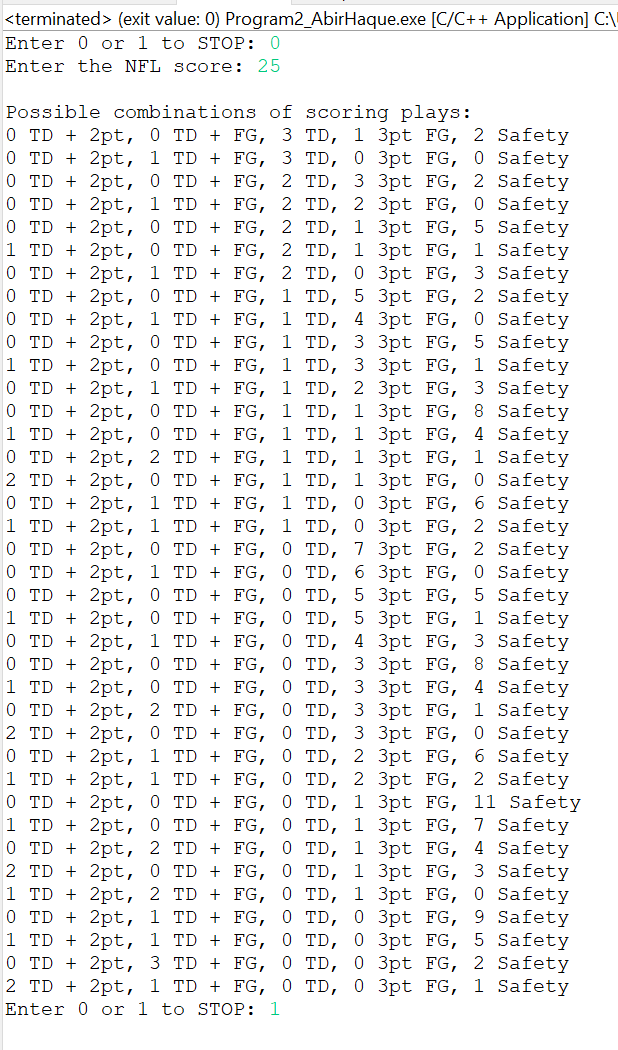
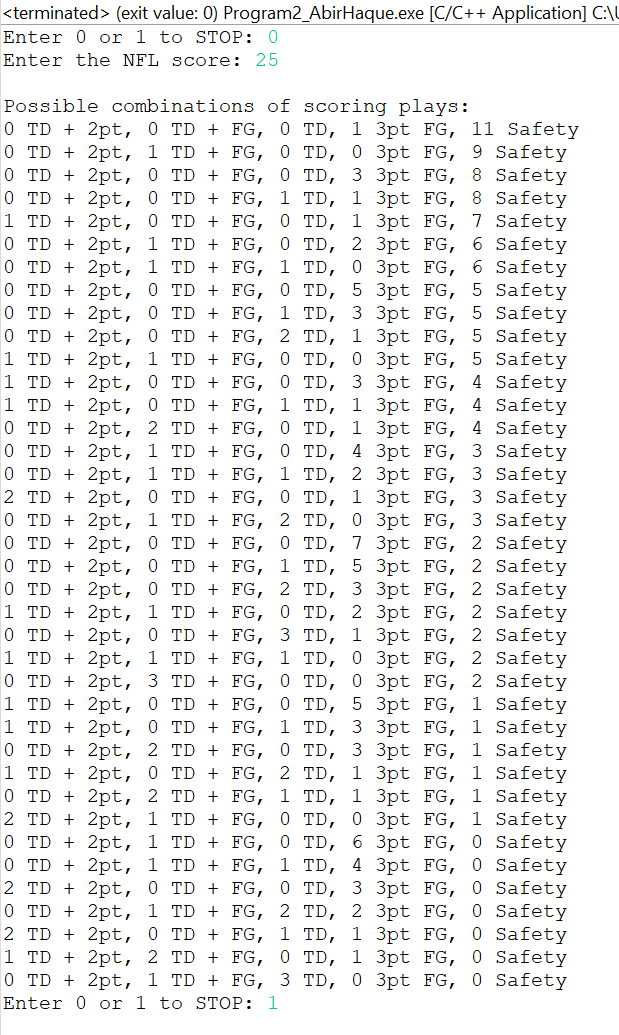
Reordered Program2 combinations

Changed region(s): [[0.0, 0.0, 1.0, 0.9894]]

diff --git a/Cprogram2/Program2.c b/Cprogram2/Program2.c
@@ -45,11 +45,12 @@ int rec_score(struct Set * set_val,int score, int td, int fg, int safety, int td
 		append(set_val,tmp,5);
 	}
 	if (cur_score<score){
-		return rec_score(set_val,score, td+1, fg, safety, td_2c, td_fg)|
-		rec_score(set_val,score, td, fg+1, safety, td_2c, td_fg)|
+		return
 		rec_score(set_val, score, td, fg, safety+1, td_2c, td_fg)|
-		rec_score(set_val,score, td, fg, safety, td_2c+1, td_fg)|
-		rec_score(set_val,score, td, fg, safety, td_2c, td_fg+1);
+		rec_score(set_val,score, td, fg+1, safety, td_2c, td_fg)|
+		rec_score(set_val,score, td+1, fg, safety, td_2c, td_fg)|
+		rec_score(set_val,score, td, fg, safety, td_2c, td_fg+1)|
+		rec_score(set_val,score, td, fg, safety, td_2c+1, td_fg);
 	}
 	return 0;
 }
